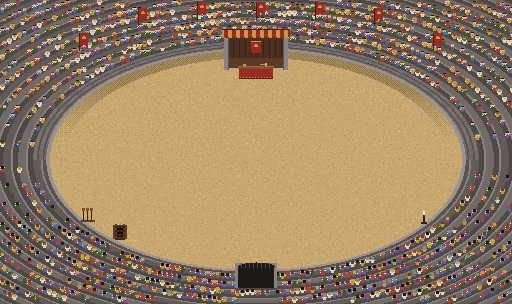
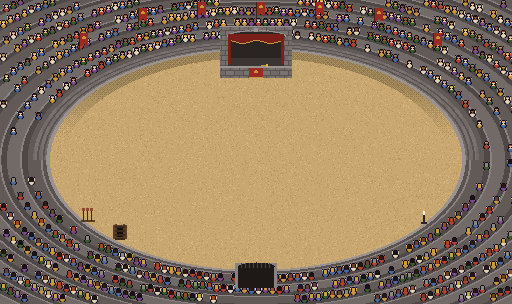
The commentator's box in the arena's own stone; a bigger crowd in the walkers' style
The box is set into the tiers like an emperor's box: a coursed stone frame and arch, a red curtain inside, a stone
parapet at the sand's edge with the Crown's cloth. The spectators are bigger and drawn like the walkers: outlined,
hair, two eyes, shoulders, arms up when they cheer.

Claude-Session: https://claude.ai/code/session_01M3Peeuj4v63JAjidnU8Moq

diff --git a/EPISODES.md b/EPISODES.md
@@ -66,8 +66,8 @@ don't follow the crime (twenty, then *one*, then fifty), and the last one gets a
 - **Episode 13, "Unacceptable"** (`node scripts/episode-video.mjs 13`, 16.2 s: allowed up to about twenty, author,
   "its dialogue is too fast"; `read: 1.45`). Two fixed shots, cut between, never panned (author: "camera angles are
   video game like"): the ring (you in the middle, your three side by side on your left, Brannoc a few tiles off on your
-  right) and Barnaby in his commentator's box, built into the wall at the head of the sand (a stone alcove under a
-  striped awning, a red-draped desk at the sand's edge). The Warden is out of sight; he enters
+  right) and Barnaby in his commentator's box, set into the tiers at the head of the sand like an emperor's box, in the
+  arena's own stone (an arch, a red curtain inside, a stone parapet at the sand's edge with the Crown's cloth on it). The Warden is out of sight; he enters
   with the arena shaking, later. Barnaby (box): "Well, well, well. If it isn't our final contestants." The menu: *I was
   just going for a walk.* Barnaby (box, the screen jolts): "UNACCEPTABLE." / "You will pay with your lives!" Brannoc
   (ring): "P-P-Pay with our lives!?" and he passes out flat, away from you, Zs and a snot bubble. Your three: Silas Seen "I pulled a muscle on
@@ -80,7 +80,7 @@ don't follow the crime (twenty, then *one*, then fifty), and the last one gets a
   Barnaby is a ringmaster now (top hat, red tailcoat, moustache), and a small guy (`short`: stubby legs), here and in Warrior City.
 - **The Colosseum** (author, Oct 6, 2026: "look at the arena outside looking in"): the arena (`the-pit`) is drawn as the
   inside of the oval Warrior City shows from without, wider (32×19, two rows of stands over the box), open to the sky: sand, a low stone wall, tiers
-  packed with the crowd (little pixel people, faces toward the sand and backs on the near side, on their feet and
+  packed with the crowd (little pixel people in the walkers' style, outlined, seven pixels wide, faces toward the sand and backs on the near side, on their feet and
   cheering every other beat: a second picture, `the-pit-cheer.png`, `cheer` on the map), the Crown's red banners with the gold fist, the great gate at the bottom and a trapdoor down
   to the cells (`drawArena` in `scripts/world-art.mjs`, `floor: "sand"`). Everyone moved with it (`dungeon.ts`
   `BRANNOC_FAINTED`, `SAND_MIDDLE`; the exits in `progress.ts`). Spectators on the sand (the crowd, the Warden, the
